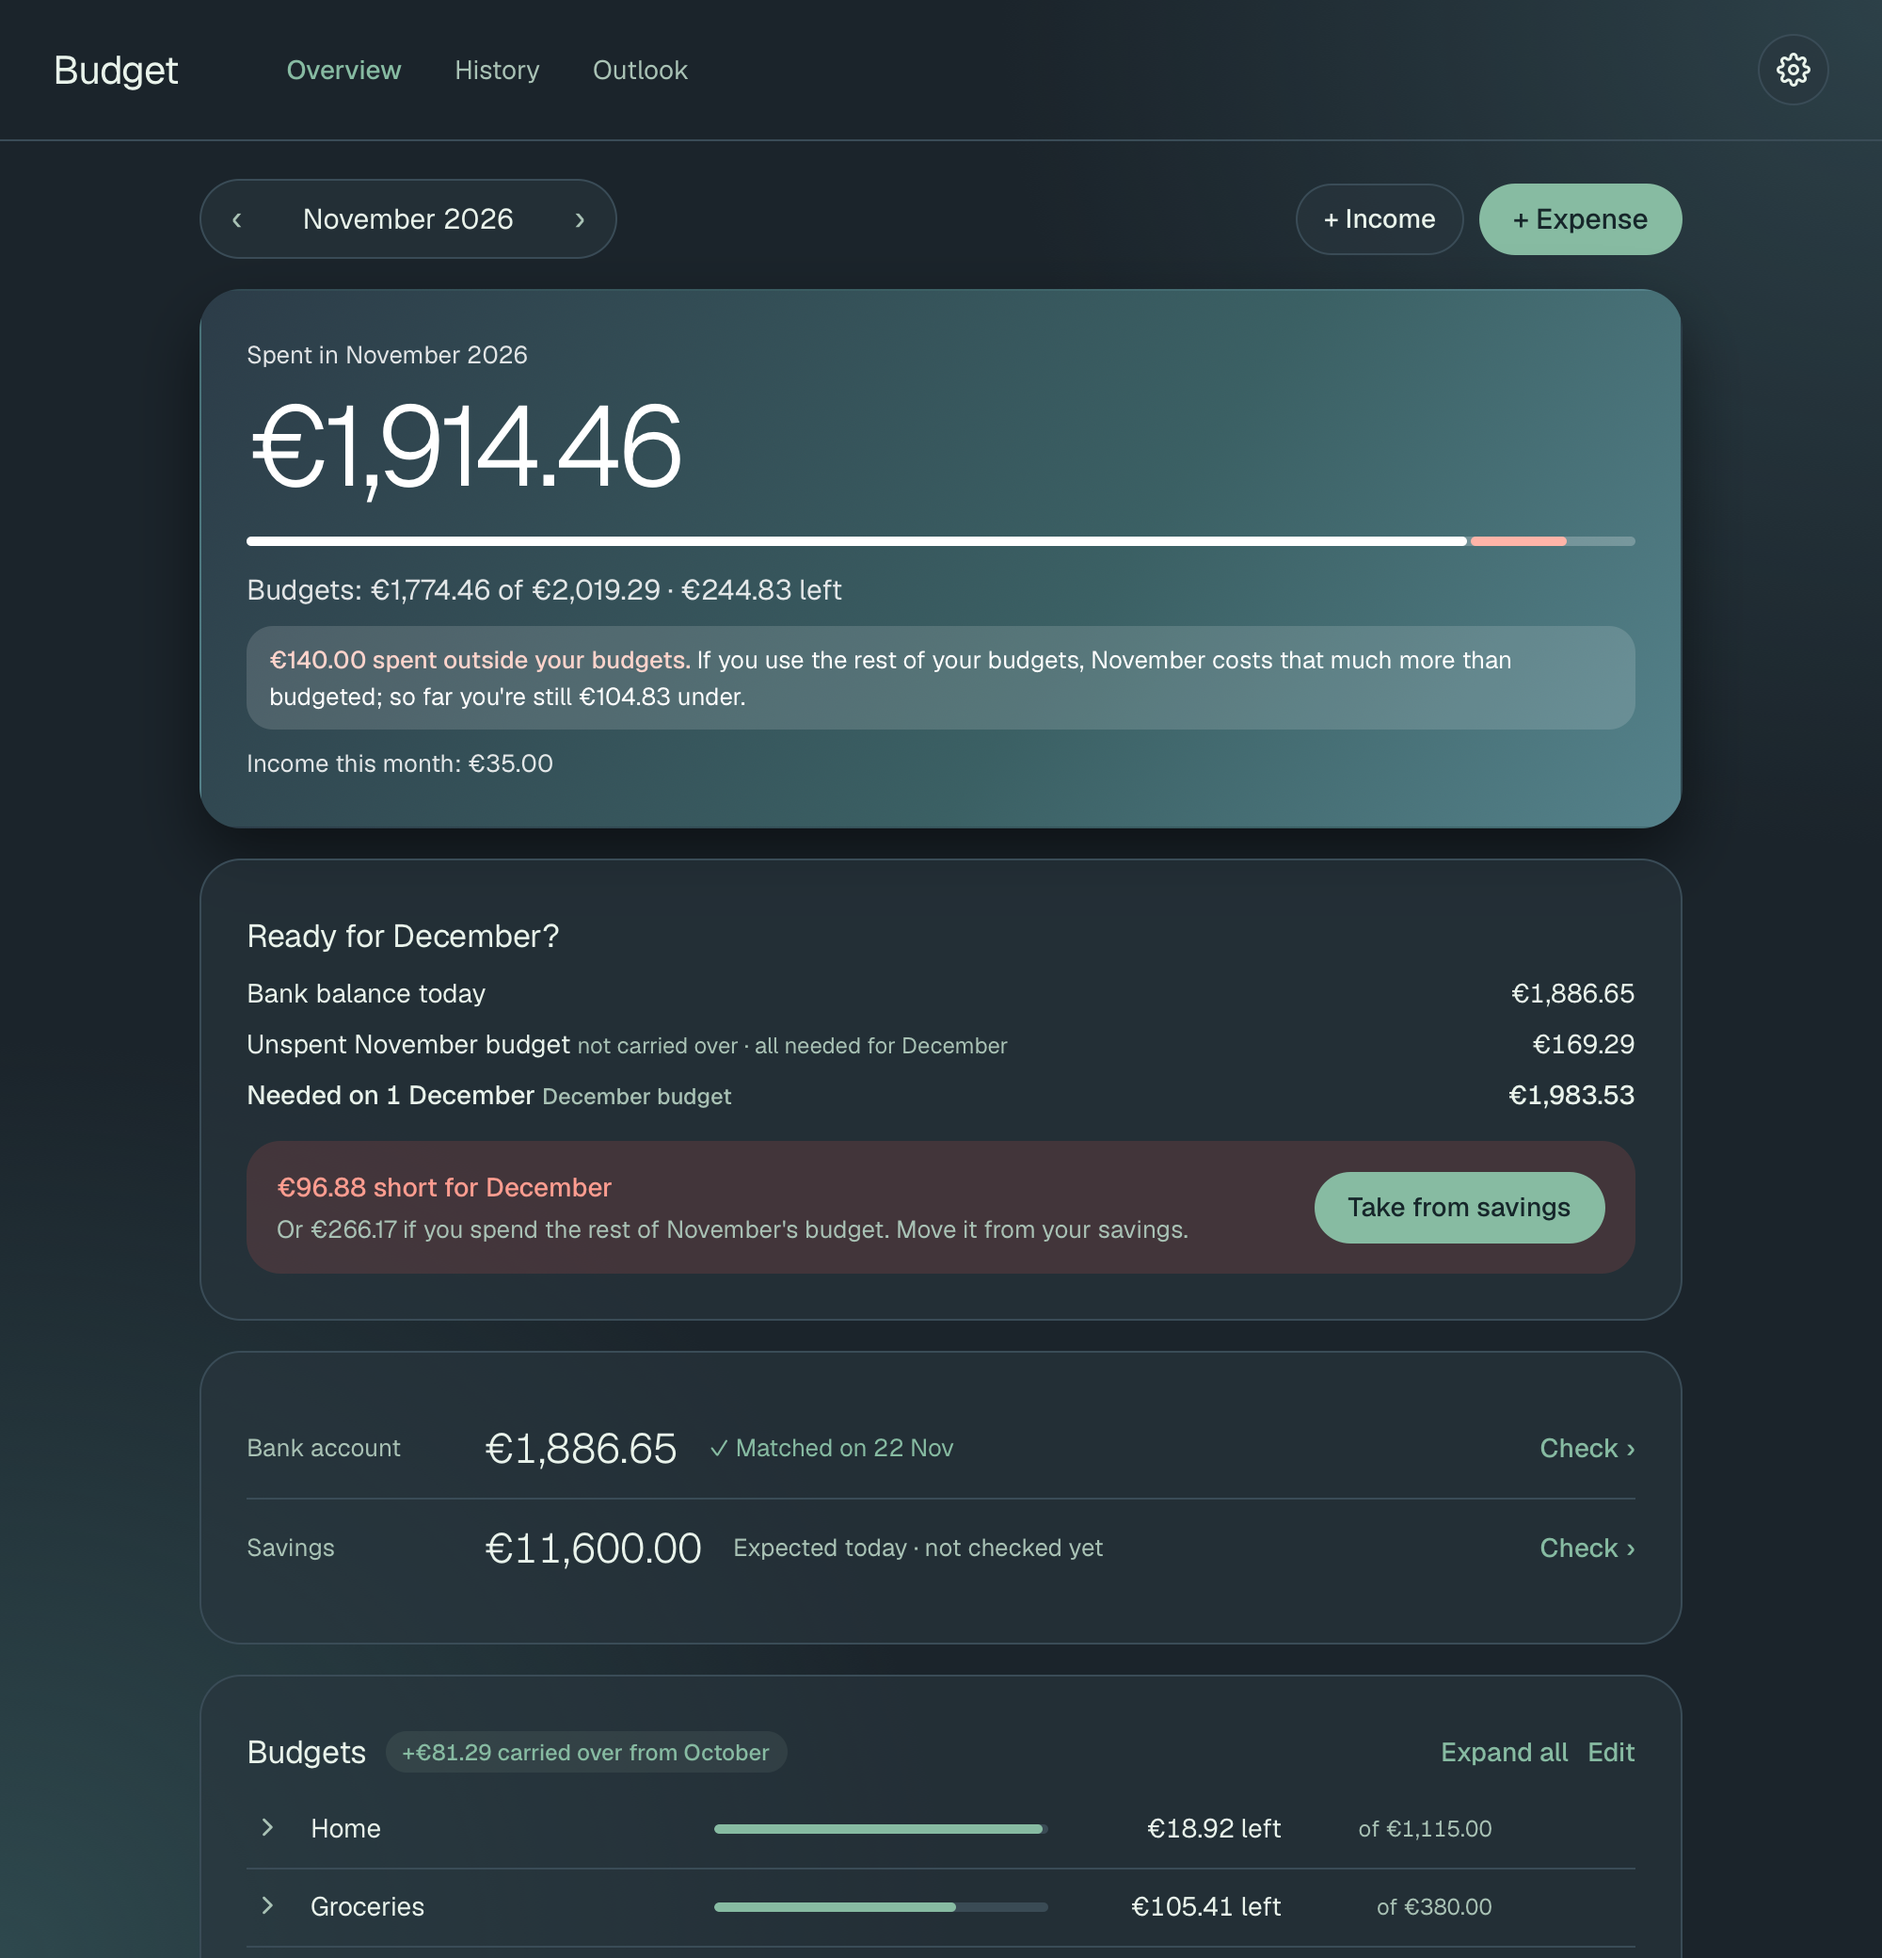
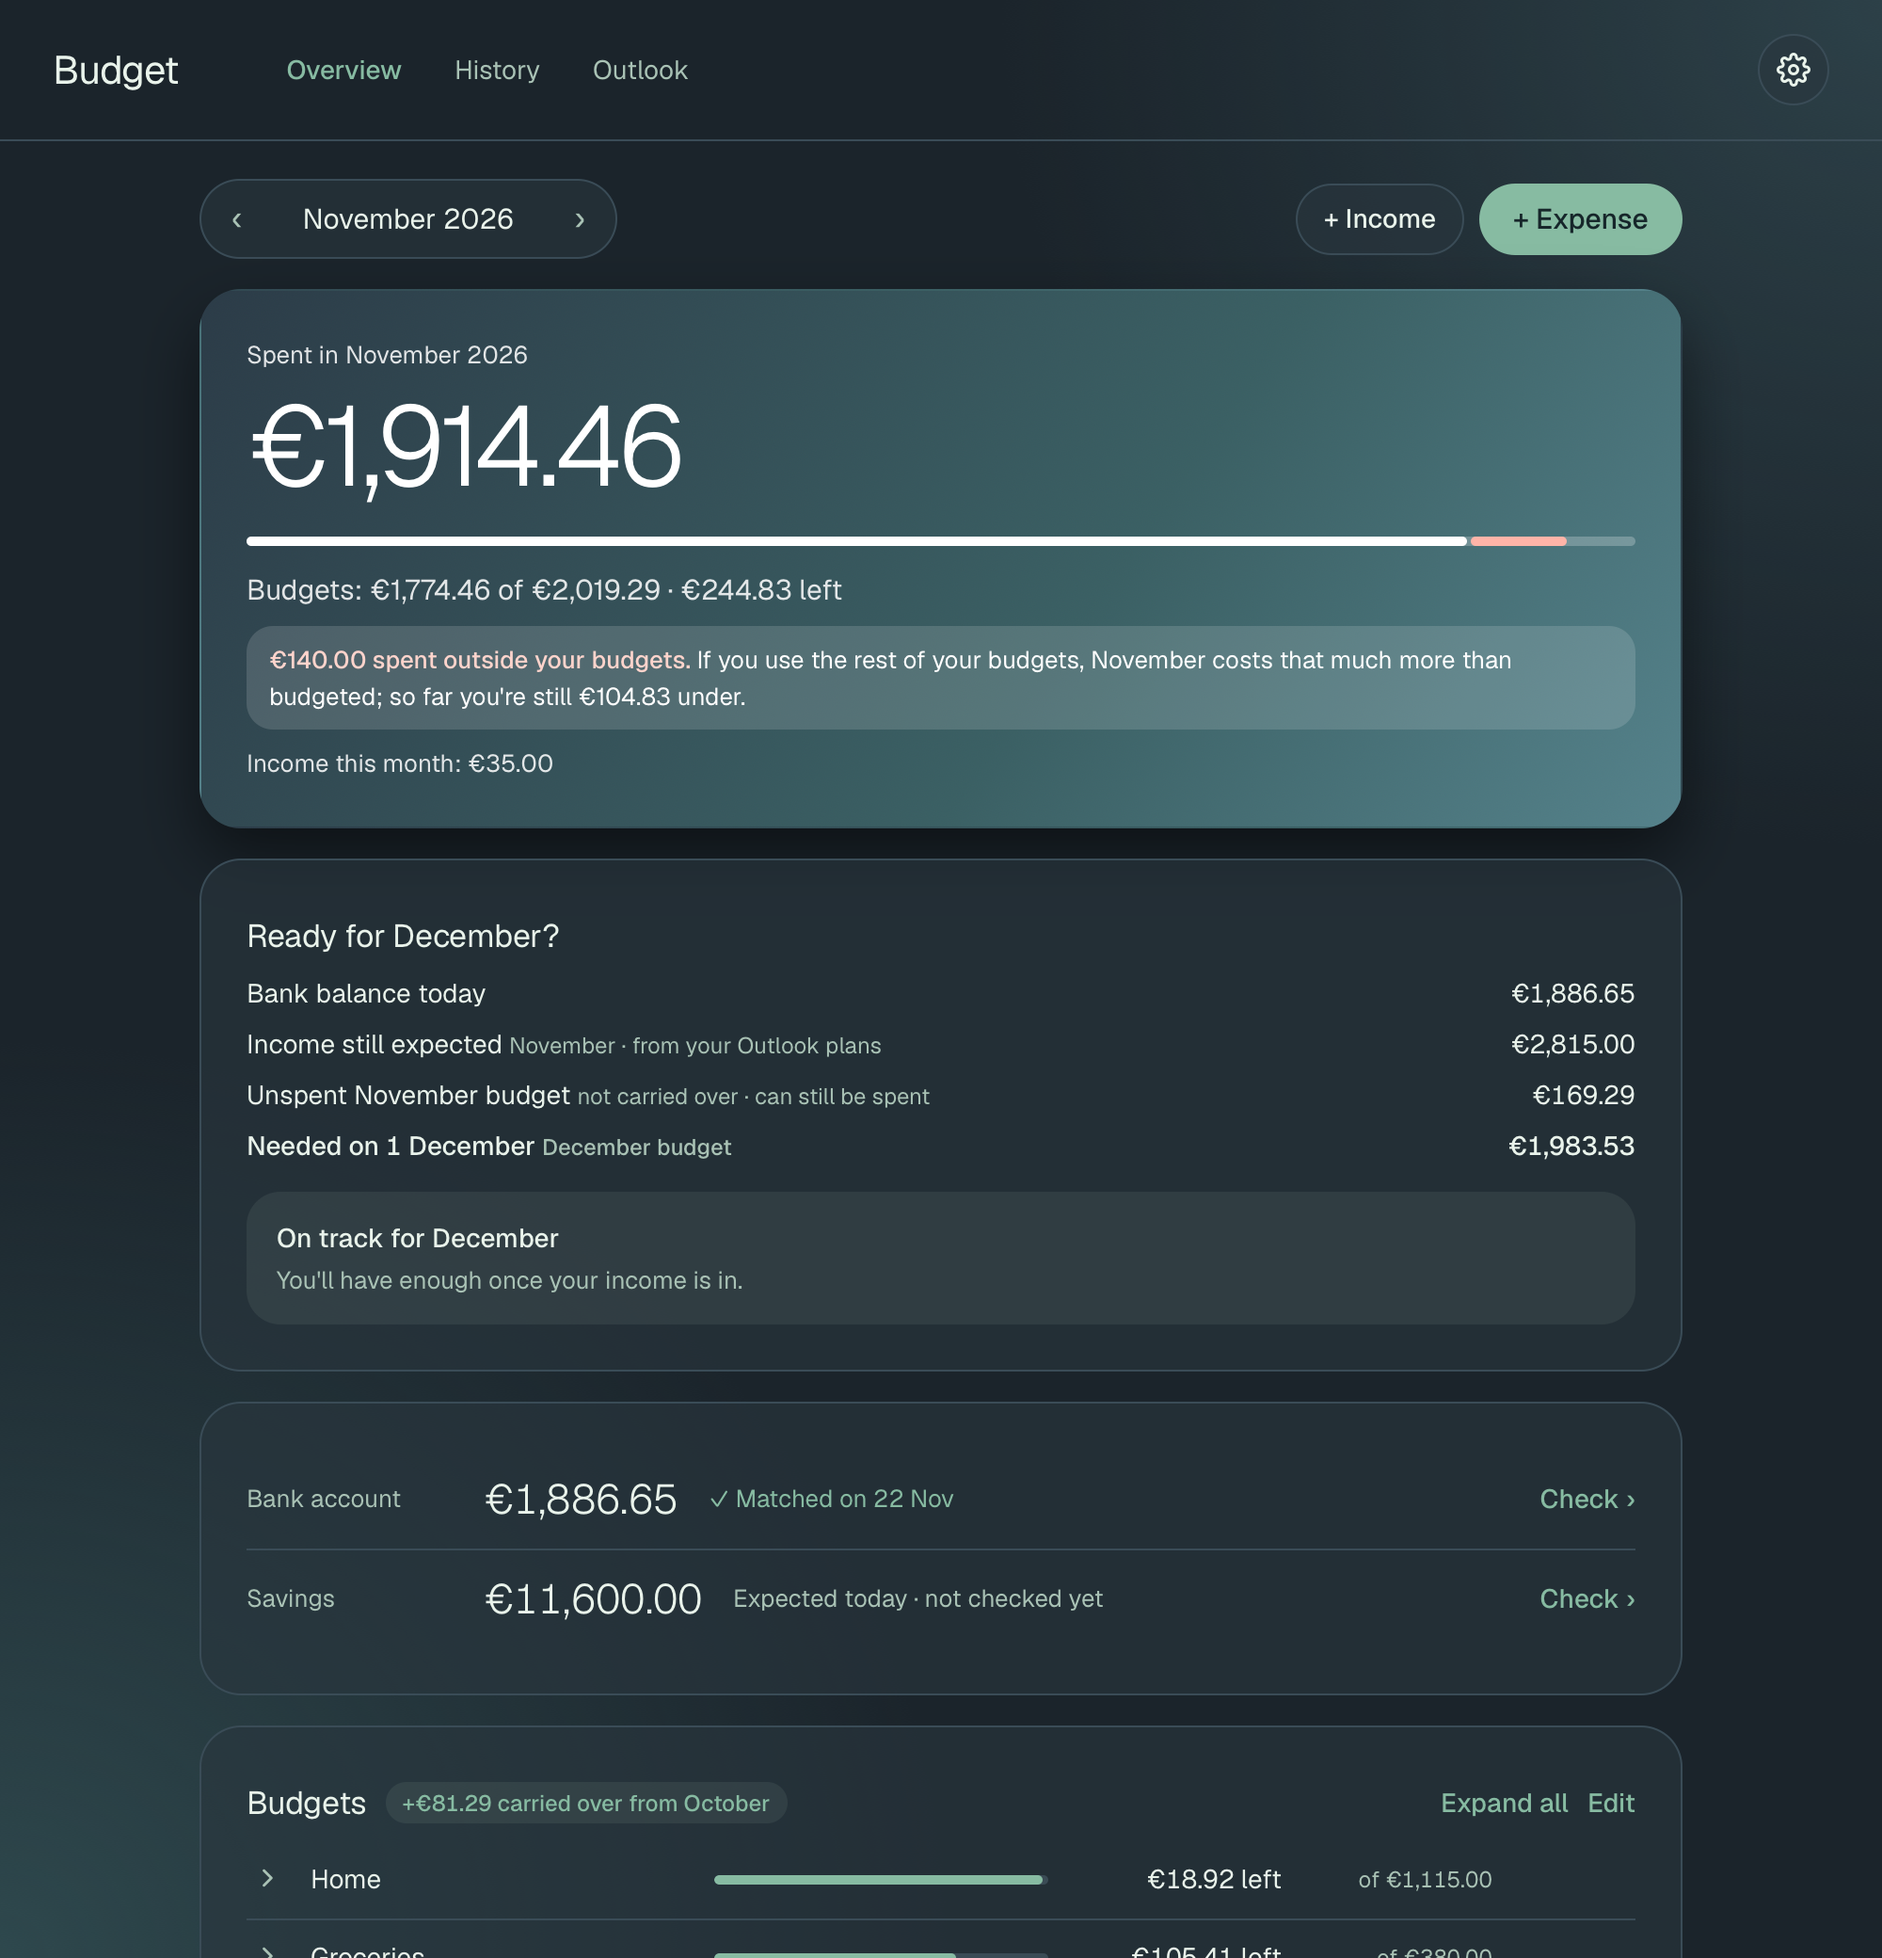
Expect the demo's salary from this month, so the overview shows a normal month instead of a shortage

diff --git a/app/demo.py b/app/demo.py
@@ -81,7 +81,9 @@ def seed():
         api.set_balance_start(conn, None, {"account": "savings", "amount": 310000, "date": start}, None)
         bank = api.get_balance(conn, None, None, {"account": ["bank"]})["expected"]
         api.add_balance_check(conn, None, {"account": "bank", "date": TODAY.isoformat(), "amount": bank}, None)
-        api.save_plan(conn, None, {"kind": "income", "name": "Salary", "amount": 285000, "start_month": NEXT_MONTH}, None)
+        # The salary is expected from this month, so before payday (the 25th) Budget counts on it
+        # and the overview shows a normal month instead of a shortage.
+        api.save_plan(conn, None, {"kind": "income", "name": "Salary", "amount": 285000, "start_month": THIS_MONTH}, None)
         plan = conn.execute("SELECT id FROM plans").fetchone()["id"]
         api.add_plan_change(conn, None, {"plan_id": plan, "start_month": f"{YEAR + 1}-03", "amount": 300000}, None)
         for name, month, amount in (("Car service", NEXT_MONTH, 48000), ("Summer holiday", f"{YEAR + 1}-06", 180000),
